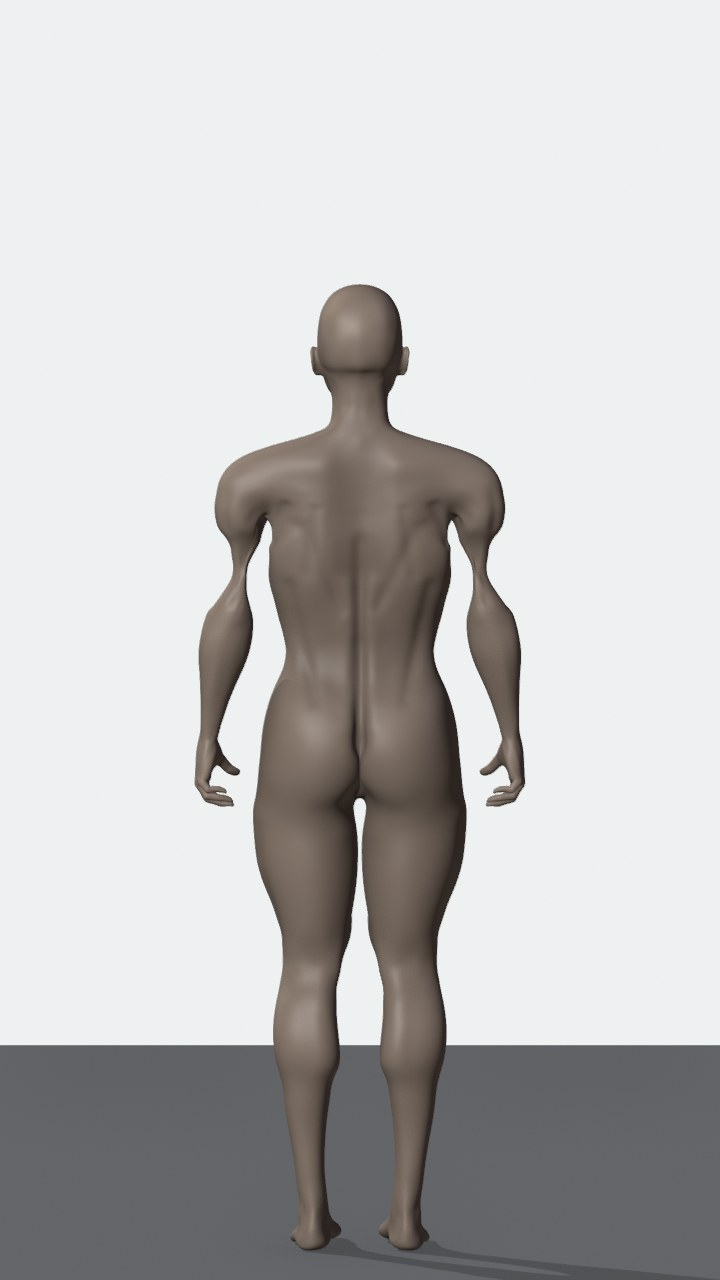
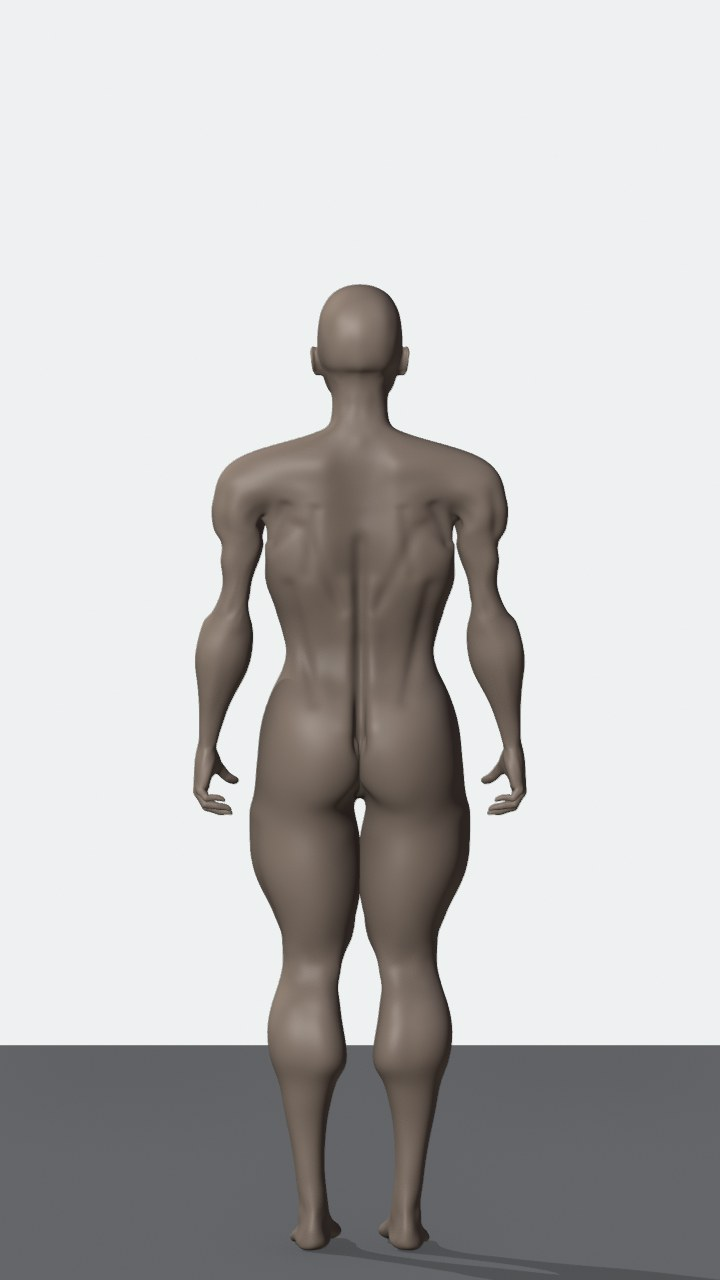
Option 5 MPFB v8, male and female: match the photos (owner choice): more muscle in arms, shoulders, legs, glutes and torso; stronger definition
Experimental references only; not approved, not production.

Claude-Session: https://claude.ai/code/session_01EPKohHG29Xe8qKuNMT5Fv9

diff --git a/review-assets/body_v2/mpfb_option5_20261103/README.md b/review-assets/body_v2/mpfb_option5_20261103/README.md
@@ -56,3 +56,26 @@
 - **Male inseam:** MPFB's leg lengths are shortened here. A production model takes its limb lengths from the canonical skeleton.
 - **Female definition:** the generic pass with the pectoral features off. Female-specific detail is still to come.
 - **Approval:** both await owner review.
+
+## v8: match the photos (owner, 3 Nov: "both need more fixing"; when the photos and guide numbers disagree, the photos win; all areas)
+
+- **Male:**
+  - deltoids, arms and forearms bigger;
+  - quads, calves and glutes fuller;
+  - chest and lats more;
+  - definition 2.8.
+- **Female:**
+  - the thin-upper-arm narrowing removed, replaced by deltoid and arm muscle;
+  - stronger quads, calves and glutes;
+  - definition 2.6.
+- **Male measurements (cm):**
+  - chest 114.1, waist 82.6, hips 104.2;
+  - upper arm 44.1, thigh 64.9, calf 42.0;
+  - inseam 86.1, shoulder width ≈46.0.
+- **Female measurements (cm):**
+  - bust 93.5, underbust 71.3, waist 68.2, hips 96.9;
+  - upper arm 29.1, thigh 58.8, calf 38.5;
+  - inseam 78.7, shoulder width ≈37.4.
+- Several girths are now above the guide ranges, as the owner chose.
+- Bald heads: MPFB's bundled assets include no hair.
+- `params.json` / `measurements.json` hold v8. **Not approved.**
